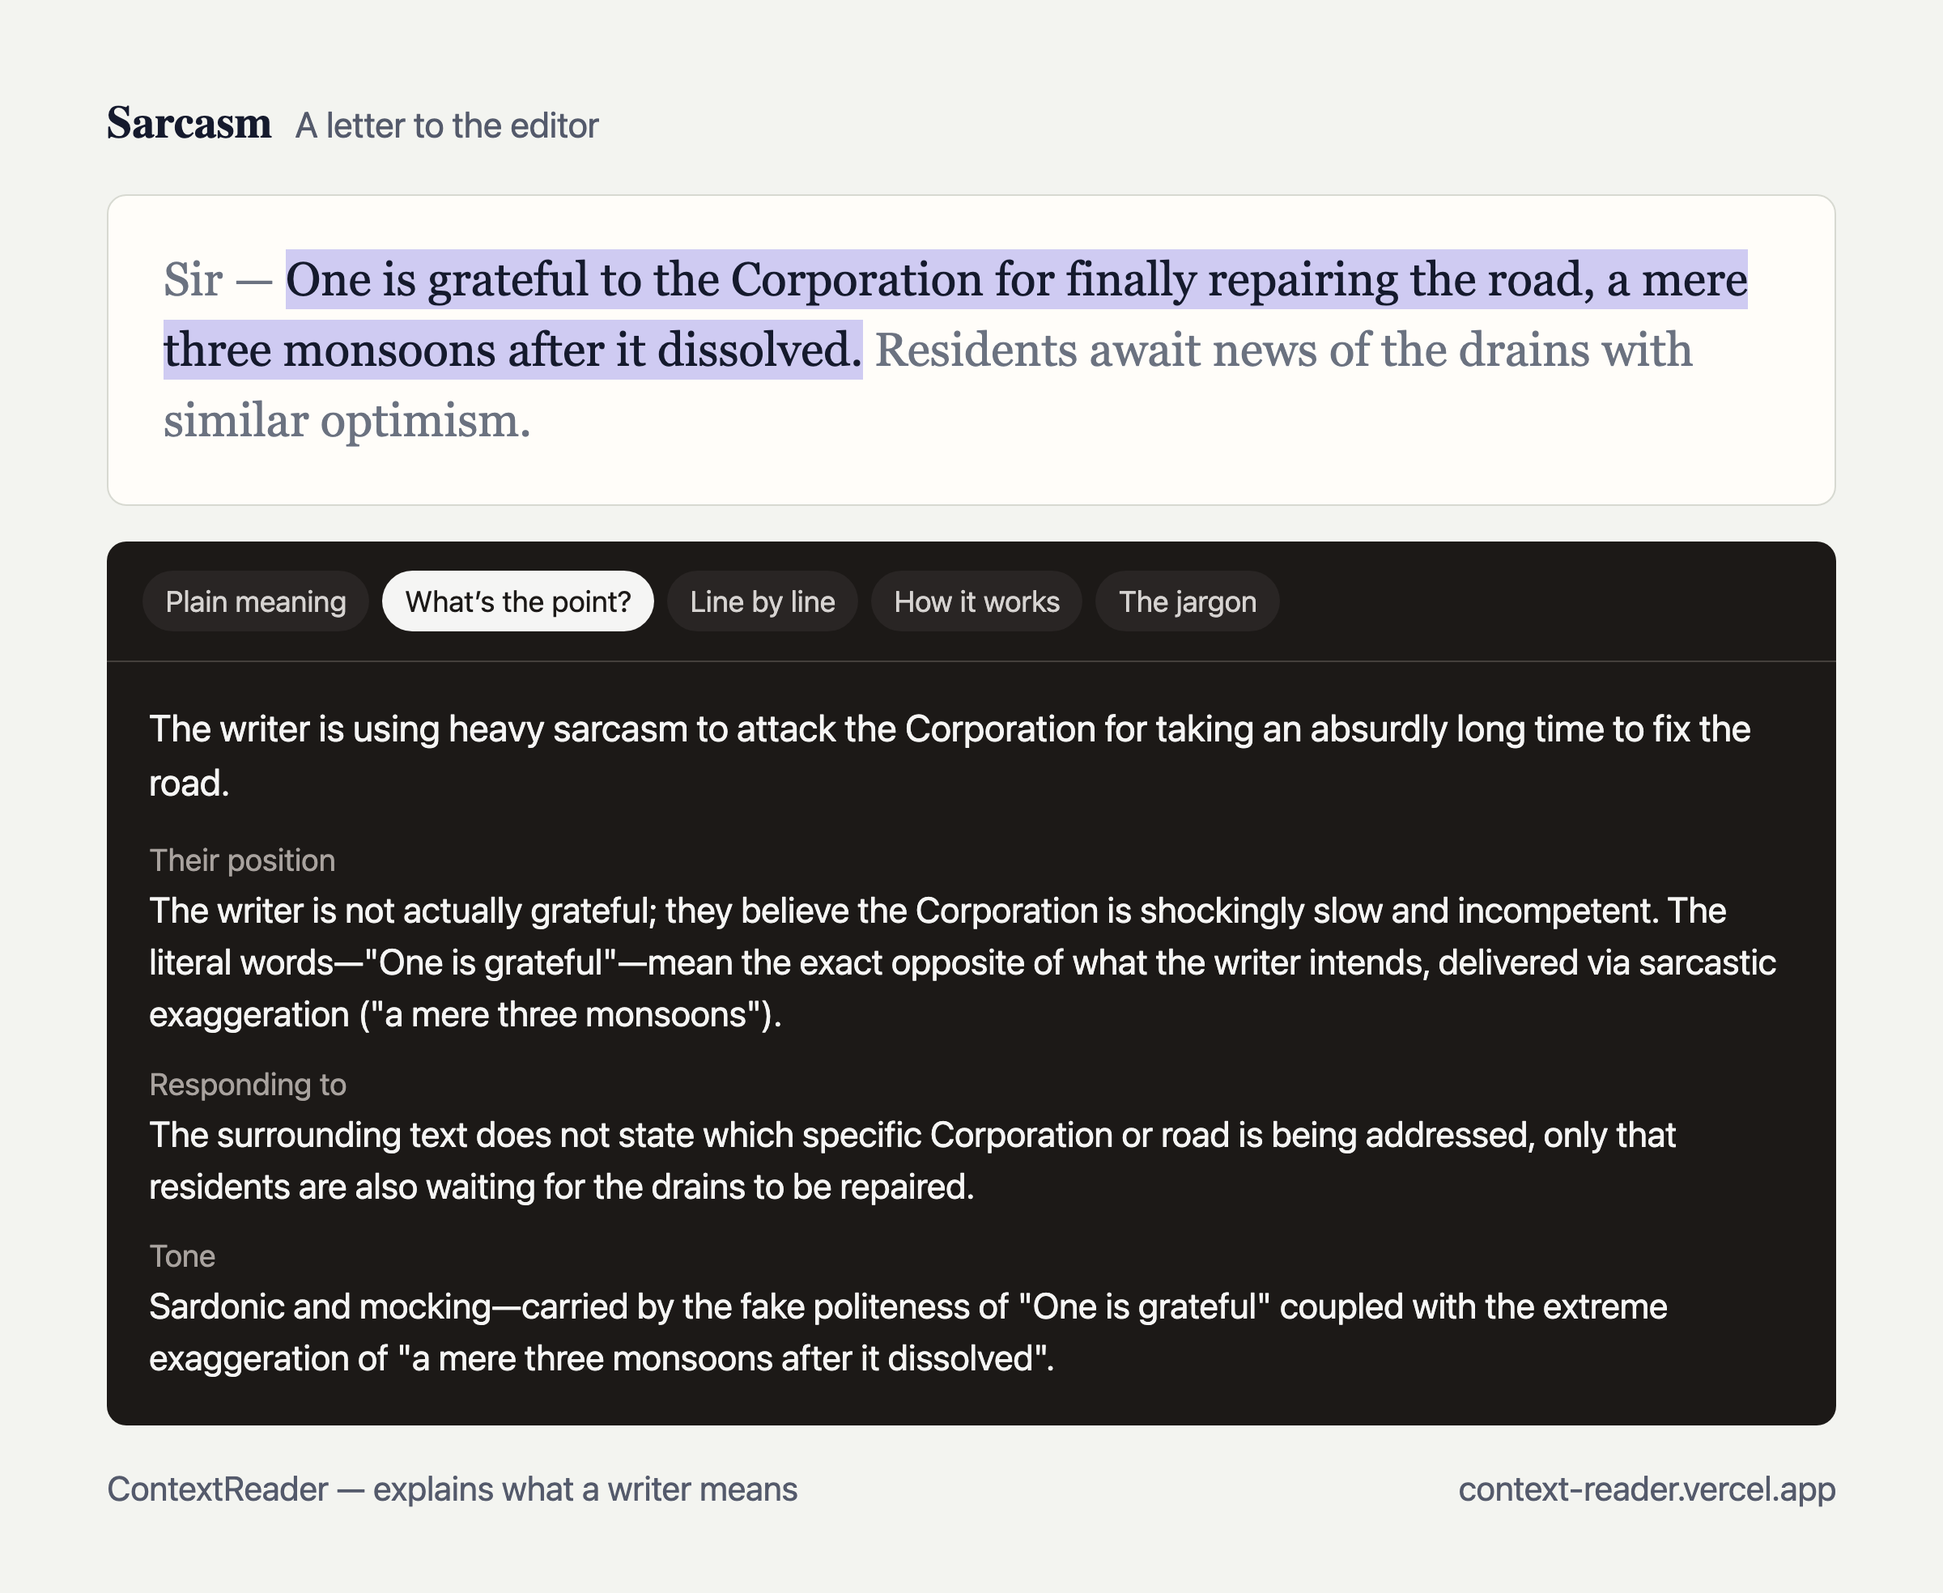
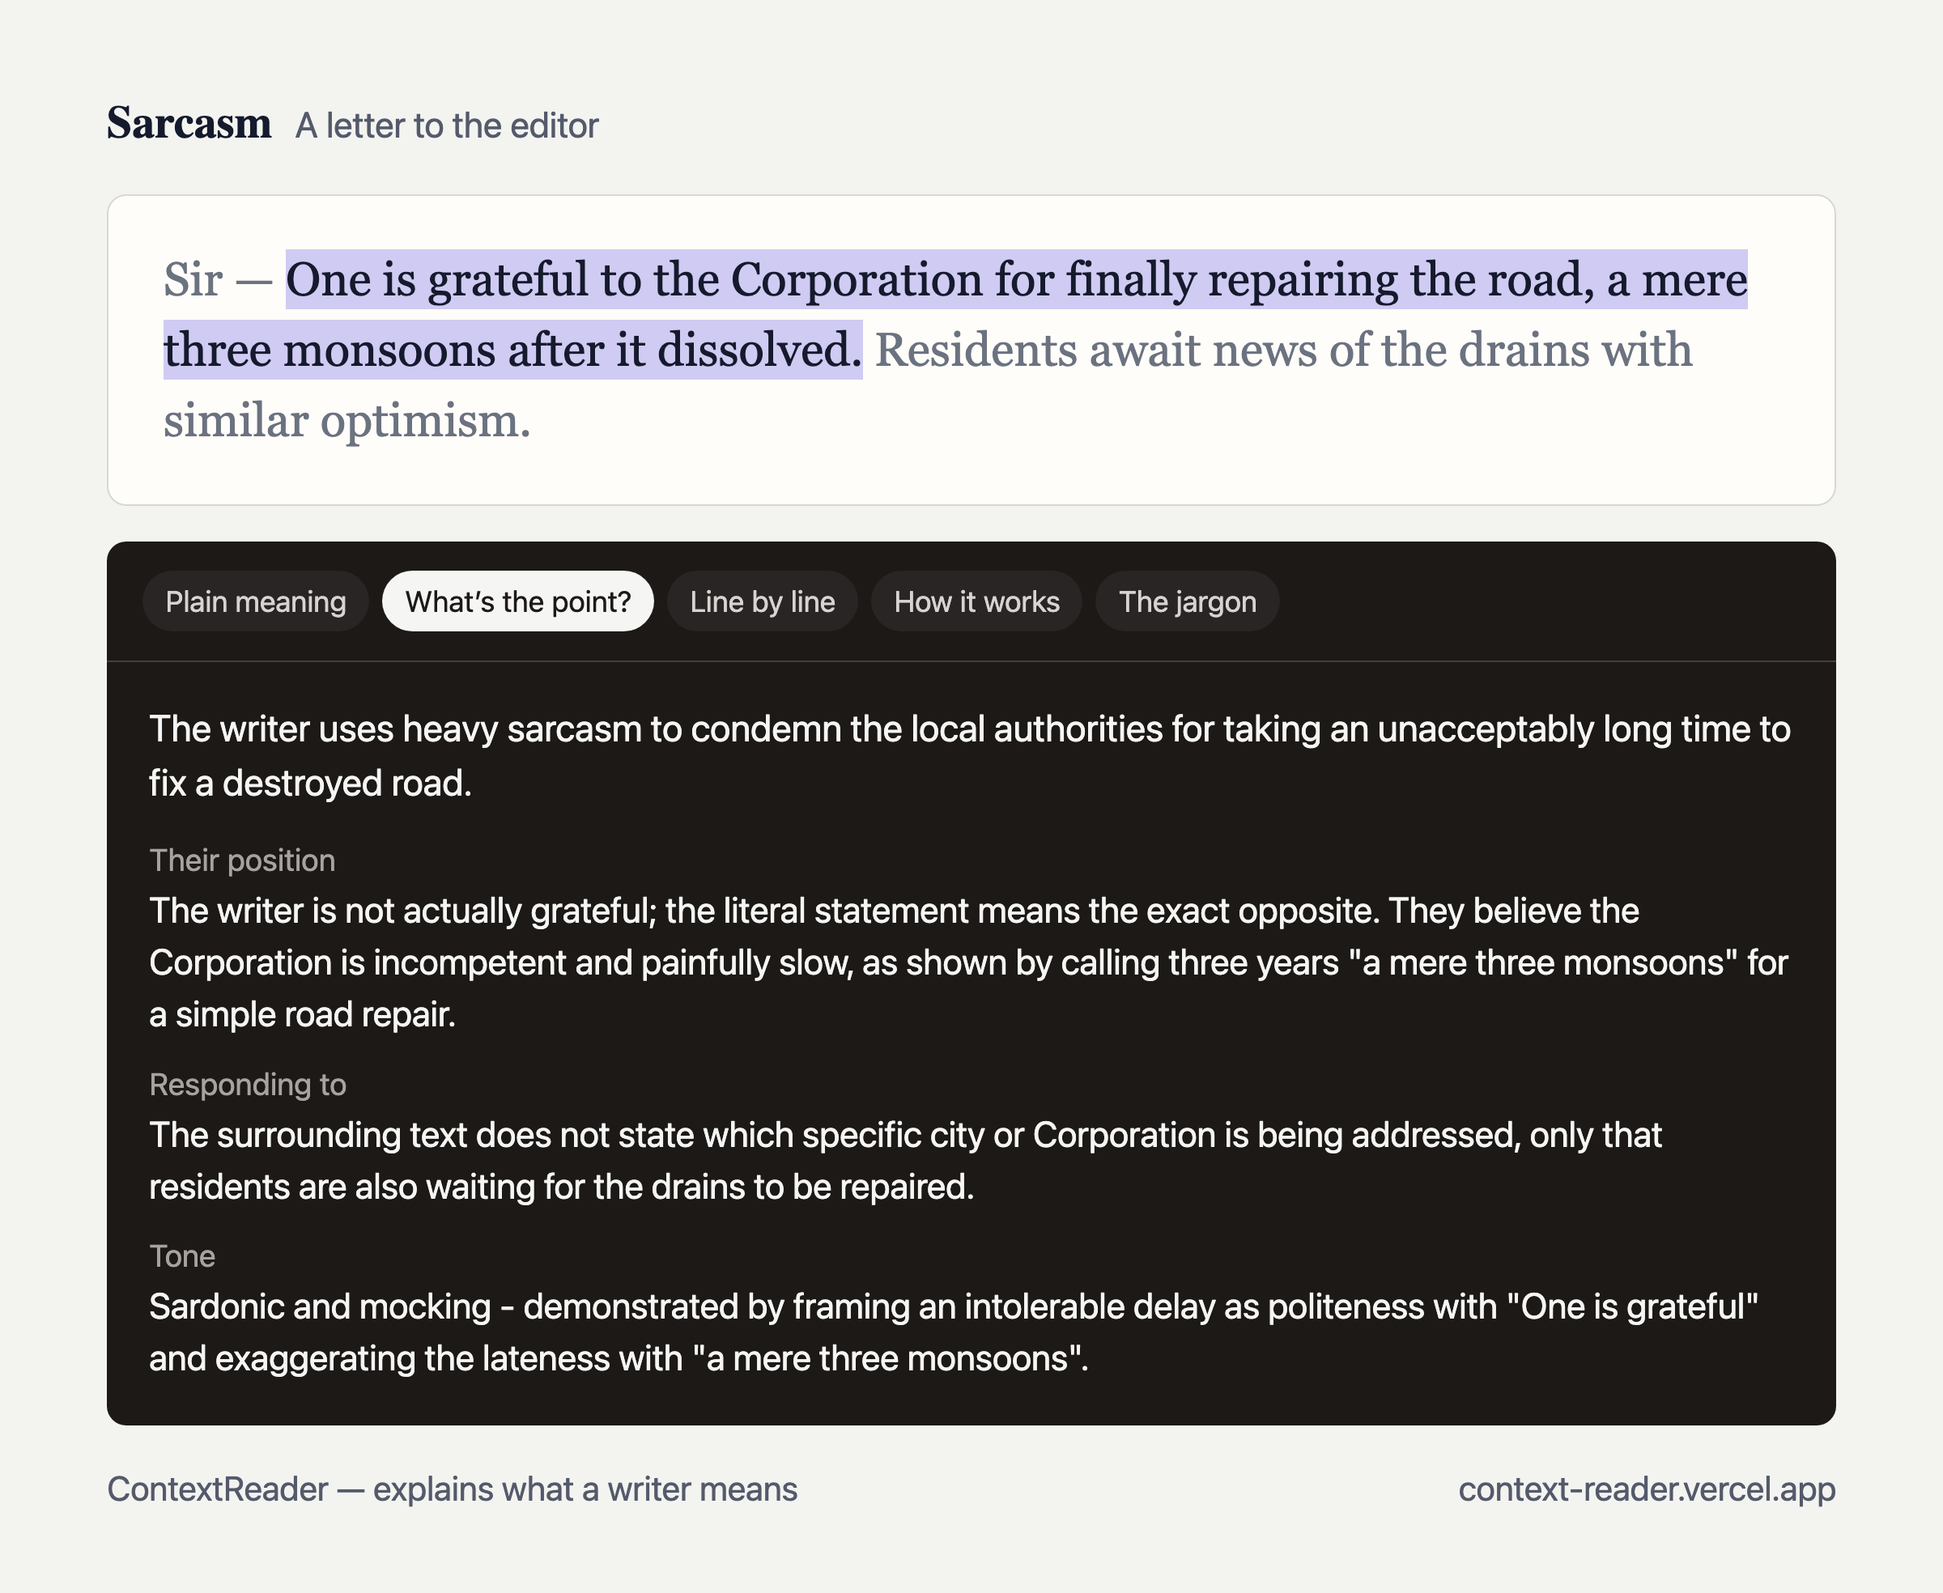
Regenerate the cards against the deployed fix
All five re-fetched from production after the marker fix shipped, and checked:
no guillemets remain in any answer. Evidence is now quoted with ordinary
quotation marks - "the Centre", "federal comity", "keys", "values".

Heights land within 50px of each other across the set, so they read as a
series rather than five unrelated images.

diff --git a/store-assets/cards/wordplay.html b/store-assets/cards/wordplay.html
@@ -3,7 +3,7 @@
 <style>
   * { box-sizing: border-box; margin: 0; padding: 0; }
   body {
-    width: 1200px; height: 1005px; background: #f3f4f0; color: #151a2d;
+    width: 1200px; height: 1006px; background: #f3f4f0; color: #151a2d;
     font-family: 'IBM Plex Sans', system-ui, sans-serif;
     padding: 60px 66px; display: flex; flex-direction: column;
   }
@@ -31,6 +31,6 @@
 <div class="stage"><p class="quote"><mark>Now is the winter of our discontent<br>Made glorious summer by this sun of York;</mark></p></div>
 <div class="card">
   <div class="modes"><span class="chip">Plain meaning</span><span class="chip">What&rsquo;s the point?</span><span class="chip">Line by line</span><span class="chip on">How it works</span></div>
-  <div class="body"><p class="summary">Richard opens the play by turning a harsh season into a triumphant one through a heavily loaded pun on weather and royalty, establishing his deceptive command over tone and metaphor.</p><div class="row"><p class="label">winter of our discontent</p><p class="gloss">The metaphor equates the recent civil wars and the defeat of the House of Lancaster to a bleak, freezing season. By calling it &quot;our discontent,&quot; Richard frames the nation&#x27;s suffering as a shared grievance, masking his own singular ambition behind collective recovery.</p></div><div class="row"><p class="label">Made glorious summer</p><p class="gloss">The verb &quot;Made&quot; places the transformation as an active, sudden event rather than a natural progression. The transition from &quot;winter&quot; to &quot;summer&quot; is abrupt, signalling an artificial, forced shift in the political climate engineered by the new regime.</p></div><div class="row"><p class="label">sun of York</p><p class="gloss">A deliberate double meaning relies on homophones: it refers literally to the heraldic symbol of the House of York (a sun) and colloquially to Edward IV («sun» for son), the new king. It flatters the victor while quietly introducing the wordplay that characterises Richard&#x27;s duplicitous voice.</p></div></div>
+  <div class="body"><p class="summary">Richard establishes the play&#x27;s triumphant mood and his own cynical opportunism by mapping political victory onto the physical change of seasons, using weather metaphors to treat people as tools and homophones to conflate an enemy with a weather event.</p><div class="row"><p class="label">winter of our discontent</p><p class="gloss">The phrase establishes a bleak mood through literal weather imagery, where the &quot;discontent&quot; of civil war is treated not as human choices and bloodshed, but as a depressing season that naturally had to end.</p></div><div class="row"><p class="label">Made glorious summer</p><p class="gloss">The abrupt transition from the previous phrase&#x27;s misery creates a sudden, dramatic reversal in tone, achieved by substituting the cold season for a warm one to signal that the York family has seized total power.</p></div><div class="row"><p class="label">this sun of York</p><p class="gloss">The word &quot;sun&quot; is a deceptive pun doing two jobs at once: it refers literally to the bright weather that brings warmth after winter, and homophonically to the &quot;son&quot; of the House of York (Edward IV), framing a political ruler as a natural force of nature that cannot be argued with.</p></div></div>
 </div>
 <div class="foot"><span>ContextReader &mdash; explains what a writer means</span><span>context-reader.vercel.app</span></div>

diff --git a/store-assets/cards/verse.html b/store-assets/cards/verse.html
@@ -3,7 +3,7 @@
 <style>
   * { box-sizing: border-box; margin: 0; padding: 0; }
   body {
-    width: 1200px; height: 986px; background: #f3f4f0; color: #151a2d;
+    width: 1200px; height: 984px; background: #f3f4f0; color: #151a2d;
     font-family: 'IBM Plex Sans', system-ui, sans-serif;
     padding: 60px 66px; display: flex; flex-direction: column;
   }
@@ -31,6 +31,6 @@
 <div class="stage"><p class="quote"><mark>Shall I compare thee to a summer&#x27;s day?<br>Thou art more lovely and more temperate:<br>Rough winds do shake the darling buds of May,</mark></p></div>
 <div class="card">
   <div class="modes"><span class="chip">Plain meaning</span><span class="chip">What&rsquo;s the point?</span><span class="chip on">Line by line</span><span class="chip">How it works</span></div>
-  <div class="body"><p class="summary">The speaker considers comparing his beloved to a summer day, immediately decides she is superior because summer has flaws, and uses the first of those flaws—violent winds ruining new flowers—to prove it.</p><div class="row"><p class="label line">Shall I compare thee to a summer&#x27;s day?</p><p class="gloss">The speaker opens by asking a rhetorical question, proposing to measure the person he addresses against the traditional gold standard of beauty: a day in summer.</p></div><div class="row"><p class="label line">Thou art more lovely and more temperate:</p><p class="gloss">He answers his own question instantly with the claim that the person addressed beats summer on two counts: she is more attractive (&quot;more lovely&quot;) and more balanced or mild (&quot;more temperate&quot;).</p></div><div class="row"><p class="label line">Rough winds do shake the darling buds of May,</p><p class="gloss">He begins to list summer&#x27;s faults to justify his claim, pointing out the evidence in &quot;Rough winds&quot; that violently damage the fragile new blossoms (&quot;darling buds&quot;) that appear at the start of the season in May.</p></div></div>
+  <div class="body"><p class="summary">The speaker asks whether he should compare his beloved to a summer&#x27;s day, immediately deciding the beloved is superior because a summer day is flawed.</p><div class="row"><p class="label line">Shall I compare thee to a summer&#x27;s day?</p><p class="gloss">The speaker poses a question to himself, considering whether to use a standard poetic comparison of a person to the height of summer, using the phrase &quot;summer&#x27;s day&quot; to represent natural perfection.</p></div><div class="row"><p class="label line">Thou art more lovely and more temperate:</p><p class="gloss">The speaker answers his own question, claiming the beloved surpasses summer because she is both physically more beautiful (&quot;more lovely&quot;) and emotionally or physically more balanced and mild (&quot;more temperate&quot;).</p></div><div class="row"><p class="label line">Rough winds do shake the darling buds of May,</p><p class="gloss">The speaker begins to prove summer&#x27;s flaws, noting that harsh weather damages the fragile, newly formed flowers (&quot;darling buds&quot;) that belong to the start of the summer season.</p></div></div>
 </div>
 <div class="foot"><span>ContextReader &mdash; explains what a writer means</span><span>context-reader.vercel.app</span></div>

diff --git a/store-assets/cards/editorial.html b/store-assets/cards/editorial.html
@@ -31,6 +31,6 @@
 <div class="stage"><p class="quote"><span class="dim">If the recent acrimony over devolution is any indication, </span><mark>the Centre would do well to disabuse itself of the notion that federal comity is a favour it bestows</mark><span class="dim"> upon the States rather than an obligation the Constitution imposes.</span></p></div>
 <div class="card">
   <div class="modes"><span class="chip">Plain meaning</span><span class="chip on">What&rsquo;s the point?</span><span class="chip">Line by line</span><span class="chip">How it works</span><span class="chip">The jargon</span></div>
-  <div class="body"><p class="summary">The central government must stop acting as though cooperation with the States is a voluntary gift rather than a constitutional duty.</p><div class="row"><p class="label">Their position</p><p class="gloss">The writer argues that the central government (&quot;the Centre&quot;) holds a false belief: that sharing funds and working cooperatively with the States (&quot;federal comity&quot;) is &quot;a favour it bestows&quot;. The writer&#x27;s actual position is that this cooperation is legally required by &quot;the Constitution&quot; as &quot;an obligation&quot;.</p></div><div class="row"><p class="label">Responding to</p><p class="gloss">Southern states protesting the latest Finance Commission award because they are penalized for controlling population growth, as mentioned in the preceding text (&quot;recent acrimony over devolution&quot;).</p></div><div class="row"><p class="label">Tone</p><p class="gloss">Admonitory and firm — the writer uses the prescriptive phrase &quot;would do well to disabuse itself&quot; to issue a corrective warning to the central government.</p></div></div>
+  <div class="body"><p class="summary">The central government must stop acting as if cooperation with regional states is a benevolent gift rather than a constitutional duty.</p><div class="row"><p class="label">Their position</p><p class="gloss">The writer argues that the central government (&quot;the Centre&quot;) has a false understanding of its relationship with regional states, treating cooperation (&quot;federal comity&quot;) as &quot;a favour it bestows&quot; when it is actually a legal &quot;obligation the Constitution imposes.&quot;</p></div><div class="row"><p class="label">Responding to</p><p class="gloss">Protests from southern states regarding the latest Finance Commission award, as mentioned in the preceding text, where states argue &quot;that they are penalised for having controlled their populations.&quot;</p></div><div class="row"><p class="label">Tone</p><p class="gloss">Admonitory and firm, carried by the corrective phrase &quot;disabuse itself of the notion&quot; and the contrast between a voluntary &quot;favour&quot; and a mandatory &quot;obligation&quot;.</p></div></div>
 </div>
 <div class="foot"><span>ContextReader &mdash; explains what a writer means</span><span>context-reader.vercel.app</span></div>

diff --git a/store-assets/cards/paper.html b/store-assets/cards/paper.html
@@ -3,7 +3,7 @@
 <style>
   * { box-sizing: border-box; margin: 0; padding: 0; }
   body {
-    width: 1200px; height: 986px; background: #f3f4f0; color: #151a2d;
+    width: 1200px; height: 953px; background: #f3f4f0; color: #151a2d;
     font-family: 'IBM Plex Sans', system-ui, sans-serif;
     padding: 60px 66px; display: flex; flex-direction: column;
   }
@@ -31,6 +31,6 @@
 <div class="stage"><p class="quote"><span class="dim">In each decoder layer </span><mark>we compute scaled dot-product attention over the key-value pairs, masking future positions</mark><span class="dim"> so that predictions depend only on known outputs.</span></p></div>
 <div class="card">
   <div class="modes"><span class="chip">Plain meaning</span><span class="chip">What&rsquo;s the point?</span><span class="chip">Line by line</span><span class="chip">How it works</span><span class="chip on">The jargon</span></div>
-  <div class="body"><p class="summary">The model calculates how much attention to pay to different parts of the text («scaled dot-product attention over the key-value pairs»), but blocks it from looking ahead at words it hasn&#x27;t generated yet («masking future positions»).</p><div class="row"><p class="label">decoder layer</p><p class="gloss">Outside this passage: part of the neural network responsible for generating the output text one piece at a time.</p></div><div class="row"><p class="label">scaled dot-product attention</p><p class="gloss">A mathematical formula used to calculate the relationship between different words by multiplying their numerical representations together and scaling the result.</p></div><div class="row"><p class="label">key-value pairs</p><p class="gloss">Data structures where one piece of information (the key) is used to find or match against another piece of information (the value) inside the model&#x27;s memory.</p></div></div>
+  <div class="body"><p class="summary">The model calculates attention scores for the existing data while deliberately blocking it from looking ahead at words it hasn&#x27;t generated yet.</p><div class="row"><p class="label">decoder layer</p><p class="gloss">A structural block in the neural network responsible for generating the final output sequence, one piece at a time.</p></div><div class="row"><p class="label">scaled dot-product attention</p><p class="gloss">A mathematical formula that measures how much focus one part of the text should place on other parts, adjusted by a scaling factor to keep the numbers stable.</p></div><div class="row"><p class="label">key-value pairs</p><p class="gloss">Stored representations of the input data that the model searches through (&quot;keys&quot;) and retrieves information from (&quot;values&quot;).</p></div></div>
 </div>
 <div class="foot"><span>ContextReader &mdash; explains what a writer means</span><span>context-reader.vercel.app</span></div>

diff --git a/store-assets/cards/sarcasm.html b/store-assets/cards/sarcasm.html
@@ -31,6 +31,6 @@
 <div class="stage"><p class="quote"><span class="dim">Sir — </span><mark>One is grateful to the Corporation for finally repairing the road, a mere three monsoons after it dissolved.</mark><span class="dim"> Residents await news of the drains with similar optimism.</span></p></div>
 <div class="card">
   <div class="modes"><span class="chip">Plain meaning</span><span class="chip on">What&rsquo;s the point?</span><span class="chip">Line by line</span><span class="chip">How it works</span><span class="chip">The jargon</span></div>
-  <div class="body"><p class="summary">The writer is using heavy sarcasm to attack the Corporation for taking an absurdly long time to fix the road.</p><div class="row"><p class="label">Their position</p><p class="gloss">The writer is not actually grateful; they believe the Corporation is shockingly slow and incompetent. The literal words—&quot;One is grateful&quot;—mean the exact opposite of what the writer intends, delivered via sarcastic exaggeration (&quot;a mere three monsoons&quot;).</p></div><div class="row"><p class="label">Responding to</p><p class="gloss">The surrounding text does not state which specific Corporation or road is being addressed, only that residents are also waiting for the drains to be repaired.</p></div><div class="row"><p class="label">Tone</p><p class="gloss">Sardonic and mocking—carried by the fake politeness of &quot;One is grateful&quot; coupled with the extreme exaggeration of &quot;a mere three monsoons after it dissolved&quot;.</p></div></div>
+  <div class="body"><p class="summary">The writer uses heavy sarcasm to condemn the local authorities for taking an unacceptably long time to fix a destroyed road.</p><div class="row"><p class="label">Their position</p><p class="gloss">The writer is not actually grateful; the literal statement means the exact opposite. They believe the Corporation is incompetent and painfully slow, as shown by calling three years &quot;a mere three monsoons&quot; for a simple road repair.</p></div><div class="row"><p class="label">Responding to</p><p class="gloss">The surrounding text does not state which specific city or Corporation is being addressed, only that residents are also waiting for the drains to be repaired.</p></div><div class="row"><p class="label">Tone</p><p class="gloss">Sardonic and mocking - demonstrated by framing an intolerable delay as politeness with &quot;One is grateful&quot; and exaggerating the lateness with &quot;a mere three monsoons&quot;.</p></div></div>
 </div>
 <div class="foot"><span>ContextReader &mdash; explains what a writer means</span><span>context-reader.vercel.app</span></div>
